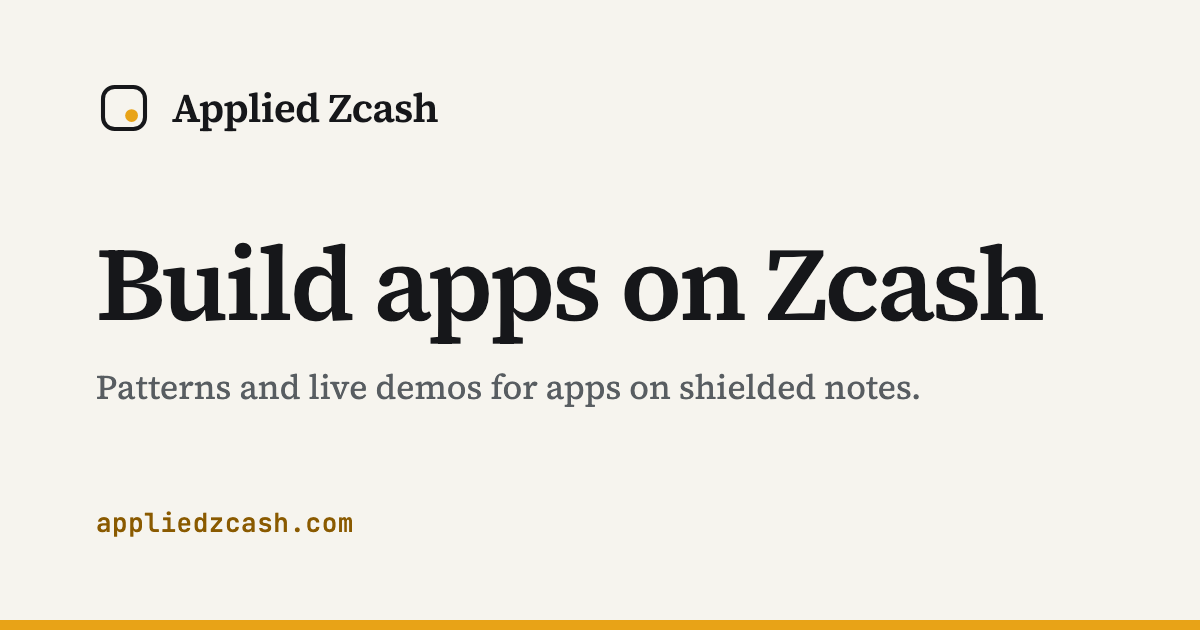
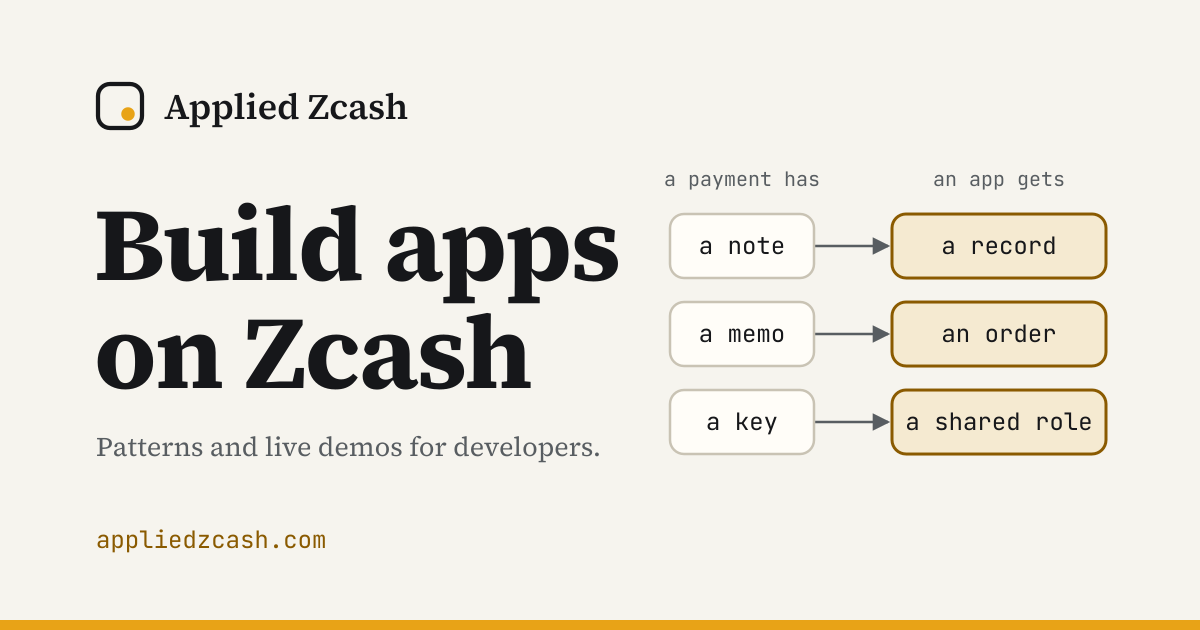
Launch polish: general hero, lay copy on bound notes, contributors, new card (#26)
The home hero described bound notes only. The new lede and figure cover
the site: the parts of a shielded payment (note, memo, key) and what an
app gets from each (a record, an order, a shared role). The meta
descriptions follow the new lede.

The bound notes page now starts with the lay explanation (sealed notes),
then gives the technical summary.

The home page has a Contributors section: Mark Henderson, Daniel
Gorgonha, and Julian (craftsoldier) as the source of the bound notes
pattern.

images/og.png shows the new figure. Its source is tools/og.svg.

diff --git a/index.html b/index.html
@@ -4,12 +4,12 @@
     <meta charset="utf-8" />
     <meta name="viewport" content="width=device-width, initial-scale=1" />
     <title>Build apps on Zcash: shielded app patterns | Applied Zcash</title>
-    <meta name="description" content="Patterns for Zcash developers: bind app data and rules to shielded notes. Anyone can verify them from chain data. Each pattern has a live demo." />
+    <meta name="description" content="Patterns for Zcash developers: build apps from shielded notes, memos and keys. The patterns operate with the consensus rules of today. Each pattern has a live demo." />
     <link rel="canonical" href="https://appliedzcash.com/" />
     <meta property="og:type" content="website" />
     <meta property="og:site_name" content="Applied Zcash" />
     <meta property="og:title" content="Build apps on Zcash: shielded app patterns" />
-    <meta property="og:description" content="Patterns for Zcash developers: bind app data and rules to shielded notes. Anyone can verify them from chain data. Each pattern has a live demo." />
+    <meta property="og:description" content="Patterns for Zcash developers: build apps from shielded notes, memos and keys. The patterns operate with the consensus rules of today. Each pattern has a live demo." />
     <meta property="og:url" content="https://appliedzcash.com/" />
     <meta name="twitter:card" content="summary_large_image" />
     <meta property="og:image" content="https://appliedzcash.com/images/og.png" />
@@ -20,7 +20,7 @@
     <meta name="theme-color" content="#0f1011" media="(prefers-color-scheme: dark)" />
     <link rel="icon" href="images/mark.svg" type="image/svg+xml" />
     <link rel="apple-touch-icon" href="images/apple-touch-icon.png" />
-    <script type="application/ld+json">{"@context": "https://schema.org", "@type": "WebSite", "name": "Applied Zcash", "url": "https://appliedzcash.com/", "description": "Patterns for Zcash developers: bind app data and rules to shielded notes. Anyone can verify them from chain data. Each pattern has a live demo.", "inLanguage": "en"}</script>
+    <script type="application/ld+json">{"@context": "https://schema.org", "@type": "WebSite", "name": "Applied Zcash", "url": "https://appliedzcash.com/", "description": "Patterns for Zcash developers: build apps from shielded notes, memos and keys. The patterns operate with the consensus rules of today. Each pattern has a live demo.", "inLanguage": "en"}</script>
     <link rel="preload" href="fonts/source-serif-4.woff2" as="font" type="font/woff2" crossorigin />
     <link rel="stylesheet" href="styles/main.css" />
     <script type="module" src="scripts/site.js"></script>
@@ -35,8 +35,8 @@
       <p class="kicker">A community reference</p>
       <h1>Build apps on Zcash</h1>
       <p class="lede">
-        An app on Zcash can attach data and rules to shielded notes. Anyone can use chain data to verify
-        the data and the rules. We call this near-programmability.
+        An app on Zcash uses the parts of a shielded payment: notes, memos, keys and addresses. With these parts, an
+        app can keep a record, receive orders and share a role. We call this near-programmability.
       </p>
       <p class="hero-sub">
         This site is for developers who look for smart contracts on Zcash. Its patterns operate with the consensus
@@ -48,27 +48,37 @@
       </p>
 
       <figure class="diagram hero-figure">
-        <svg viewBox="0 0 360 130" role="img" aria-labelledby="fig-home-title fig-home-desc">
-          <title id="fig-home-title">Bind, send and verify</title>
-          <desc id="fig-home-desc">The app puts a hash of its data in the rseed of a note. A standard wallet sends the note, and the chain keeps its cmx. Anyone with the data can calculate cmx again and compare it with the chain.</desc>
+        <svg viewBox="0 0 400 152" role="img" aria-labelledby="fig-home-title fig-home-desc">
+          <title id="fig-home-title">From the parts of a payment to the functions of an app</title>
+          <desc id="fig-home-desc">A bound note makes a record from a note. A wallet-native order puts an order in a memo. A threshold key makes a shared role from a key.</desc>
           <defs><marker id="fig-home-arrow" viewBox="0 0 8 8" refX="7" refY="4" markerWidth="7" markerHeight="7" orient="auto"><path d="M0 0 8 4 0 8z" /></marker></defs>
           <g class="e" marker-end="url(#fig-home-arrow)">
-            <path d="M100 49H133" />
-            <path d="M225 49H258" />
-            <path d="M55 64V96H305V66" />
+            <path d="M100 49H150" marker-end="none" />
+            <path d="M234 49H283" />
+            <path d="M100 89H121" marker-end="none" />
+            <path d="M263 89H283" />
+            <path d="M100 129H141" marker-end="none" />
+            <path d="M243 129H283" />
           </g>
-          <text class="m" x="55" y="18">your record</text>
-          <text class="m" x="180" y="18">rseed = hash</text>
-          <text class="m" x="305" y="18">on the chain</text>
+          <text class="m" x="55" y="18">a payment has</text>
+          <text class="m" x="340" y="18">an app gets</text>
           <rect class="v" x="10" y="34" width="90" height="30" rx="7" />
-          <text x="55" y="49">app data</text>
-          <rect class="c" x="135" y="34" width="90" height="30" rx="7" />
-          <text x="180" y="49">note</text>
-          <rect class="k" x="260" y="34" width="90" height="30" rx="7" />
-          <text x="305" y="49">cmx</text>
-          <text class="m" x="180" y="114">anyone can calculate cmx again</text>
+          <text x="55" y="49">a note</text>
+          <text class="m s" x="192" y="49">bound notes</text>
+          <rect class="k" x="285" y="34" width="110" height="30" rx="7" />
+          <text x="340" y="49">a record</text>
+          <rect class="v" x="10" y="74" width="90" height="30" rx="7" />
+          <text x="55" y="89">a memo</text>
+          <text class="m s" x="192" y="89">wallet-native orders</text>
+          <rect class="k" x="285" y="74" width="110" height="30" rx="7" />
+          <text x="340" y="89">an order</text>
+          <rect class="v" x="10" y="114" width="90" height="30" rx="7" />
+          <text x="55" y="129">a key</text>
+          <text class="m s" x="192" y="129">threshold keys</text>
+          <rect class="k" x="285" y="114" width="110" height="30" rx="7" />
+          <text x="340" y="129">a shared role</text>
         </svg>
-        <figcaption>A bound note: the chain keeps a commitment to the data of the app.</figcaption>
+        <figcaption>Three of the patterns, and the part of a payment that each pattern uses.</figcaption>
       </figure>
 
       <h2 id="basics">The basics</h2>
@@ -125,6 +135,15 @@
           <p>Give each app role one FROST group key. Any t of n members can sign for the role.</p>
         </li>
       </ul>
+
+      <h2 id="contributors">Contributors</h2>
+      <p class="section-intro">
+        These people wrote or corrected the pages:
+        <a href="https://github.com/aphelionz">Mark Henderson</a> and
+        <a href="https://github.com/danielgorgonha">Daniel Gorgonha</a>. The bound notes pattern is the work of
+        <a href="https://github.com/craftsoldier">Julian (craftsoldier)</a>. To add or correct a pattern, read the
+        <a href="https://github.com/appliedzcash/appliedzcash.com/blob/main/CONTRIBUTING.md">contribution guide</a>.
+      </p>
     </main>
     <footer>
       <p>

diff --git a/patterns/bound-notes/index.html b/patterns/bound-notes/index.html
@@ -36,8 +36,24 @@
       <p class="kicker">Pattern</p>
       <h1>Bound notes</h1>
       <p class="lede">
-        An app puts a hash of its data in the <code>rseed</code> of a note. ZIP 212 calculates ψ and rcm from
-        <code>rseed</code>. Thus, the note commitment <code>cmx</code> is a commitment to the data.
+        Zcash keeps money in sealed notes. Each note has a seal that only its contents can make.
+      </p>
+      <p>
+        A bound note puts an app's data into that seal. If someone changes the data, the seal stops matching. Everyone
+        can see the change.
+      </p>
+      <p>
+        Each new note also includes the seal of the note before it. To make the new note, the app must use up the old
+        one. Zcash lets a note be used one time only.
+      </p>
+      <p>
+        So the app's record is a single chain. Each link is sealed, and each link can come only once. Anyone with the
+        data can check the whole chain.
+      </p>
+      <p>
+        In technical terms, the seal is the note commitment <code>cmx</code>. An app puts a hash of its data in the
+        <code>rseed</code> of a note. ZIP 212 calculates ψ and rcm from <code>rseed</code>. Thus, <code>cmx</code> is a
+        commitment to the data.
       </p>
       <p>
         Standard wallets can decrypt a bound note. Anyone with the data can calculate <code>cmx</code> again and

diff --git a/BRIEF.md b/BRIEF.md
@@ -6,6 +6,24 @@ Mark bought appliedzcash.com on Nov 14, 2026. The site is a community reference 
 
 Zcash has no smart contracts. Apps can still bind data and rules to shielded notes and let anyone verify them from chain data. The site teaches these patterns, one page each, with a live demo per pattern.
 
+### Bound notes copy (Mark, Nov 17)
+
+Lay explanation, at the top of the bound notes page. The home hero stays general: it covers all patterns (Mark, Nov 20).
+
+> Zcash keeps money in sealed notes. Each note has a seal that only its contents can make.
+>
+> A bound note puts an app's data into that seal. If someone changes the data, the seal stops matching. Everyone can see the change.
+>
+> Each new note also includes the seal of the note before it. To make the new note, the app must use up the old one. Zcash lets a note be used one time only.
+>
+> So the app's record is a single chain. Each link is sealed, and each link can come only once. Anyone with the data can check the whole chain.
+
+Slide line: "Each record is sealed into Zcash, and Zcash allows only one next record."
+
+Technical framing: `rseed` = H(domain ‖ kind ‖ fields ‖ predecessor `cmx`), and ZIP 212 derives ψ and rcm from it. The hash binds the memo's data to the commitment. The binding domain keeps each app's notes separate. The chain, plus spending the predecessor, gives one history that consensus enforces. Signed memos give authenticity; the single history comes from bound notes alone.
+
+Limits the page states: about 505 data bytes per memo, one more action per extra chunk. Verification is recomputation from the revealed fields. A reveal exposes that note, so guessable data needs a secret salt. The app enforces `cmx` uniqueness (consensus enforces nullifiers). Builders need `add_output_with_rseed` (craftsoldier/orchard); any standard wallet decrypts the notes.
+
 ## Plan (decided with Mark, Nov 14)
 
 | Decision | Choice |
@@ -101,7 +119,8 @@ CONTRIBUTING.md     how to propose a pattern
 
 ## Now
 
-- [ ] **Start here: Mark shares the site with friends (L6).** HTTPS works and the sitemap is in Search Console.
+- [ ] **Start here: Mark merges branch `launch-polish`, then posts the site to X (L6).**
+- [ ] Mark merges appliedzcash/appliedzcash.com#25 (Daniel Gorgonha: verifier rules for bound note chains). The claims match orchard 0.16.0: `circuit.rs:358` (zero-value spends skip the anchor check), `builder.rs:415` and the builder shuffle.
 
 ## Soon
 
@@ -148,3 +167,6 @@ CONTRIBUTING.md     how to propose a pattern
 - [x] Nov 15: "On this page" rail on pages with 10 or more headings (orders, pairing), at 72rem and wider, built by `scripts/site.js`.
 - [x] Nov 15: action-pairing table: the seed uses the shared grouped hex view, each nf and cmx has a color swatch, and a cmx that changed since the last build flashes (all four on a second standard build, none on a canonical one).
 - [x] Nov 15: pattern glyphs on the home cards (Mark approved the mockup): a chain of notes, a short row of actions, a memo note, a joined pair, and three signers with two sealed. The seal parts use the amber seal color, and the system highlight color in forced colors.
+- [x] Nov 18: the donation footer is removed (#22).
+- [x] Nov 20: first outside contributor, Daniel Gorgonha (danielgorgonha). Merged: the 25-second block time since NU7 on polite actions (#23) and the ZIP 2009 fee for two actions (#24).
+- [x] Nov 20: launch polish on branch `launch-polish`. The home hero is general: new lede (parts of a payment, three app functions), a figure that maps note, memo and key to record, order and shared role, and general meta descriptions. The bound notes page starts with Mark's lay copy, then "In technical terms". The home page has a Contributors section: Mark, Daniel, and Julian (craftsoldier) as the source of the bound notes pattern (Mark's call, Nov 20; ZcashNames stays unnamed). `images/og.png` has the new figure; its source is `tools/og.svg` (render with static TTF copies of the two site fonts, `PANGOCAIRO_BACKEND=fc`).
